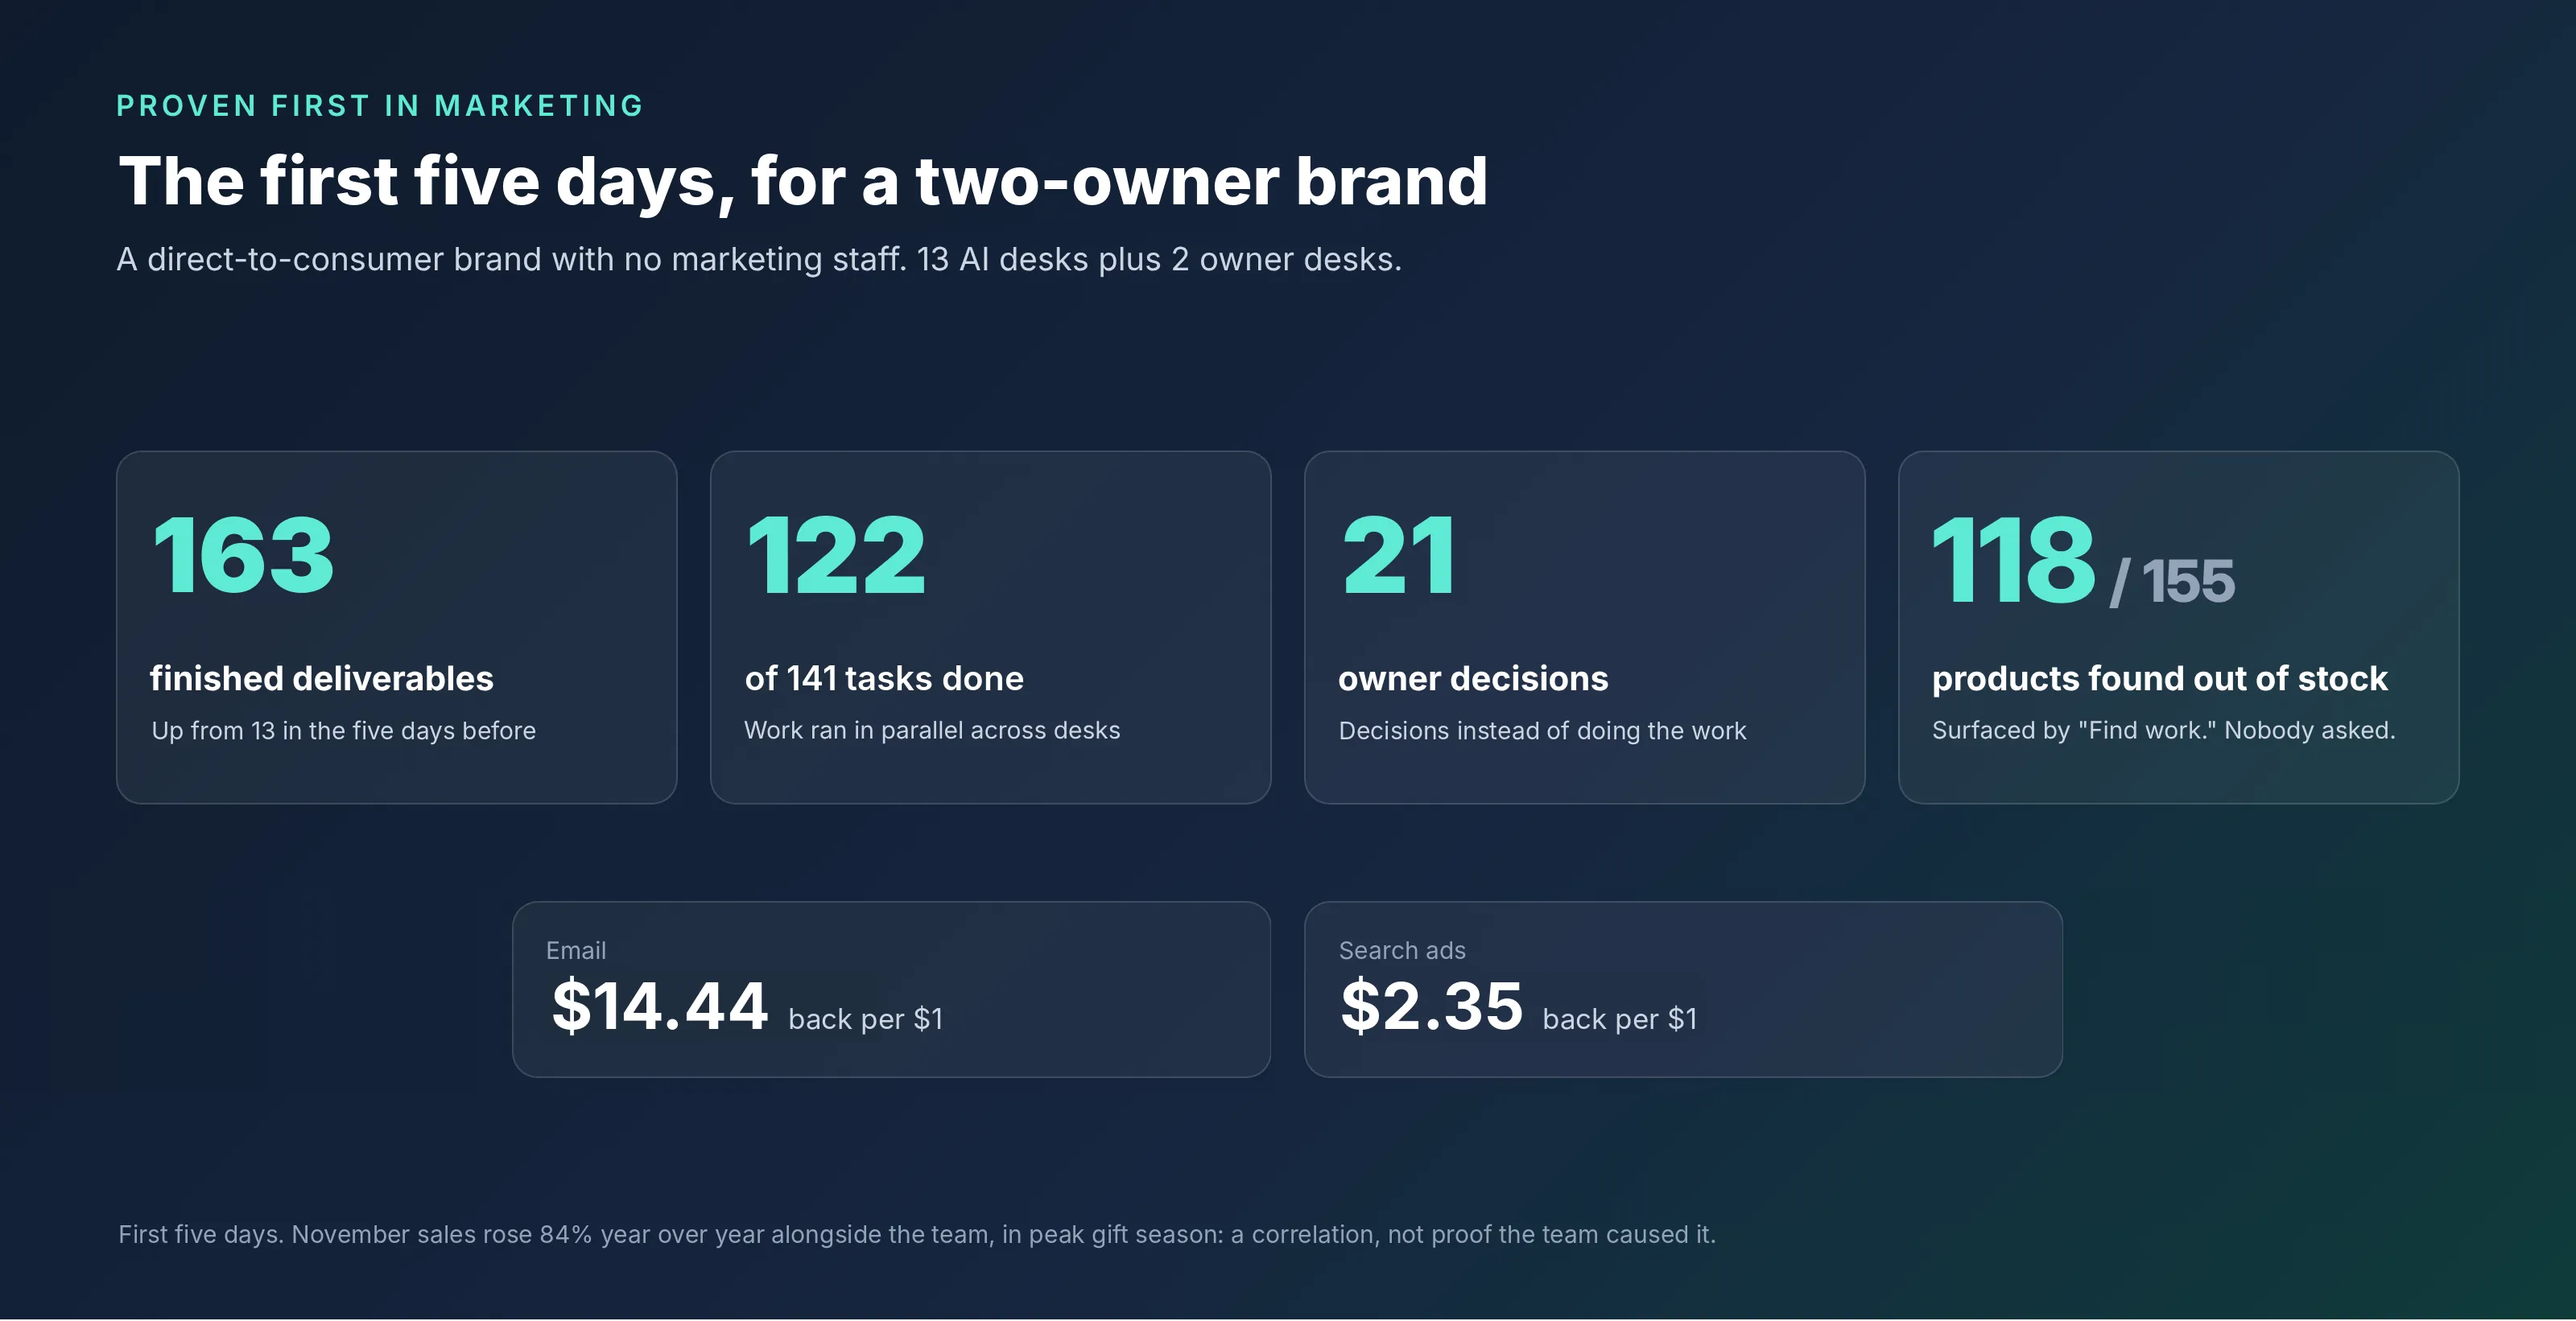
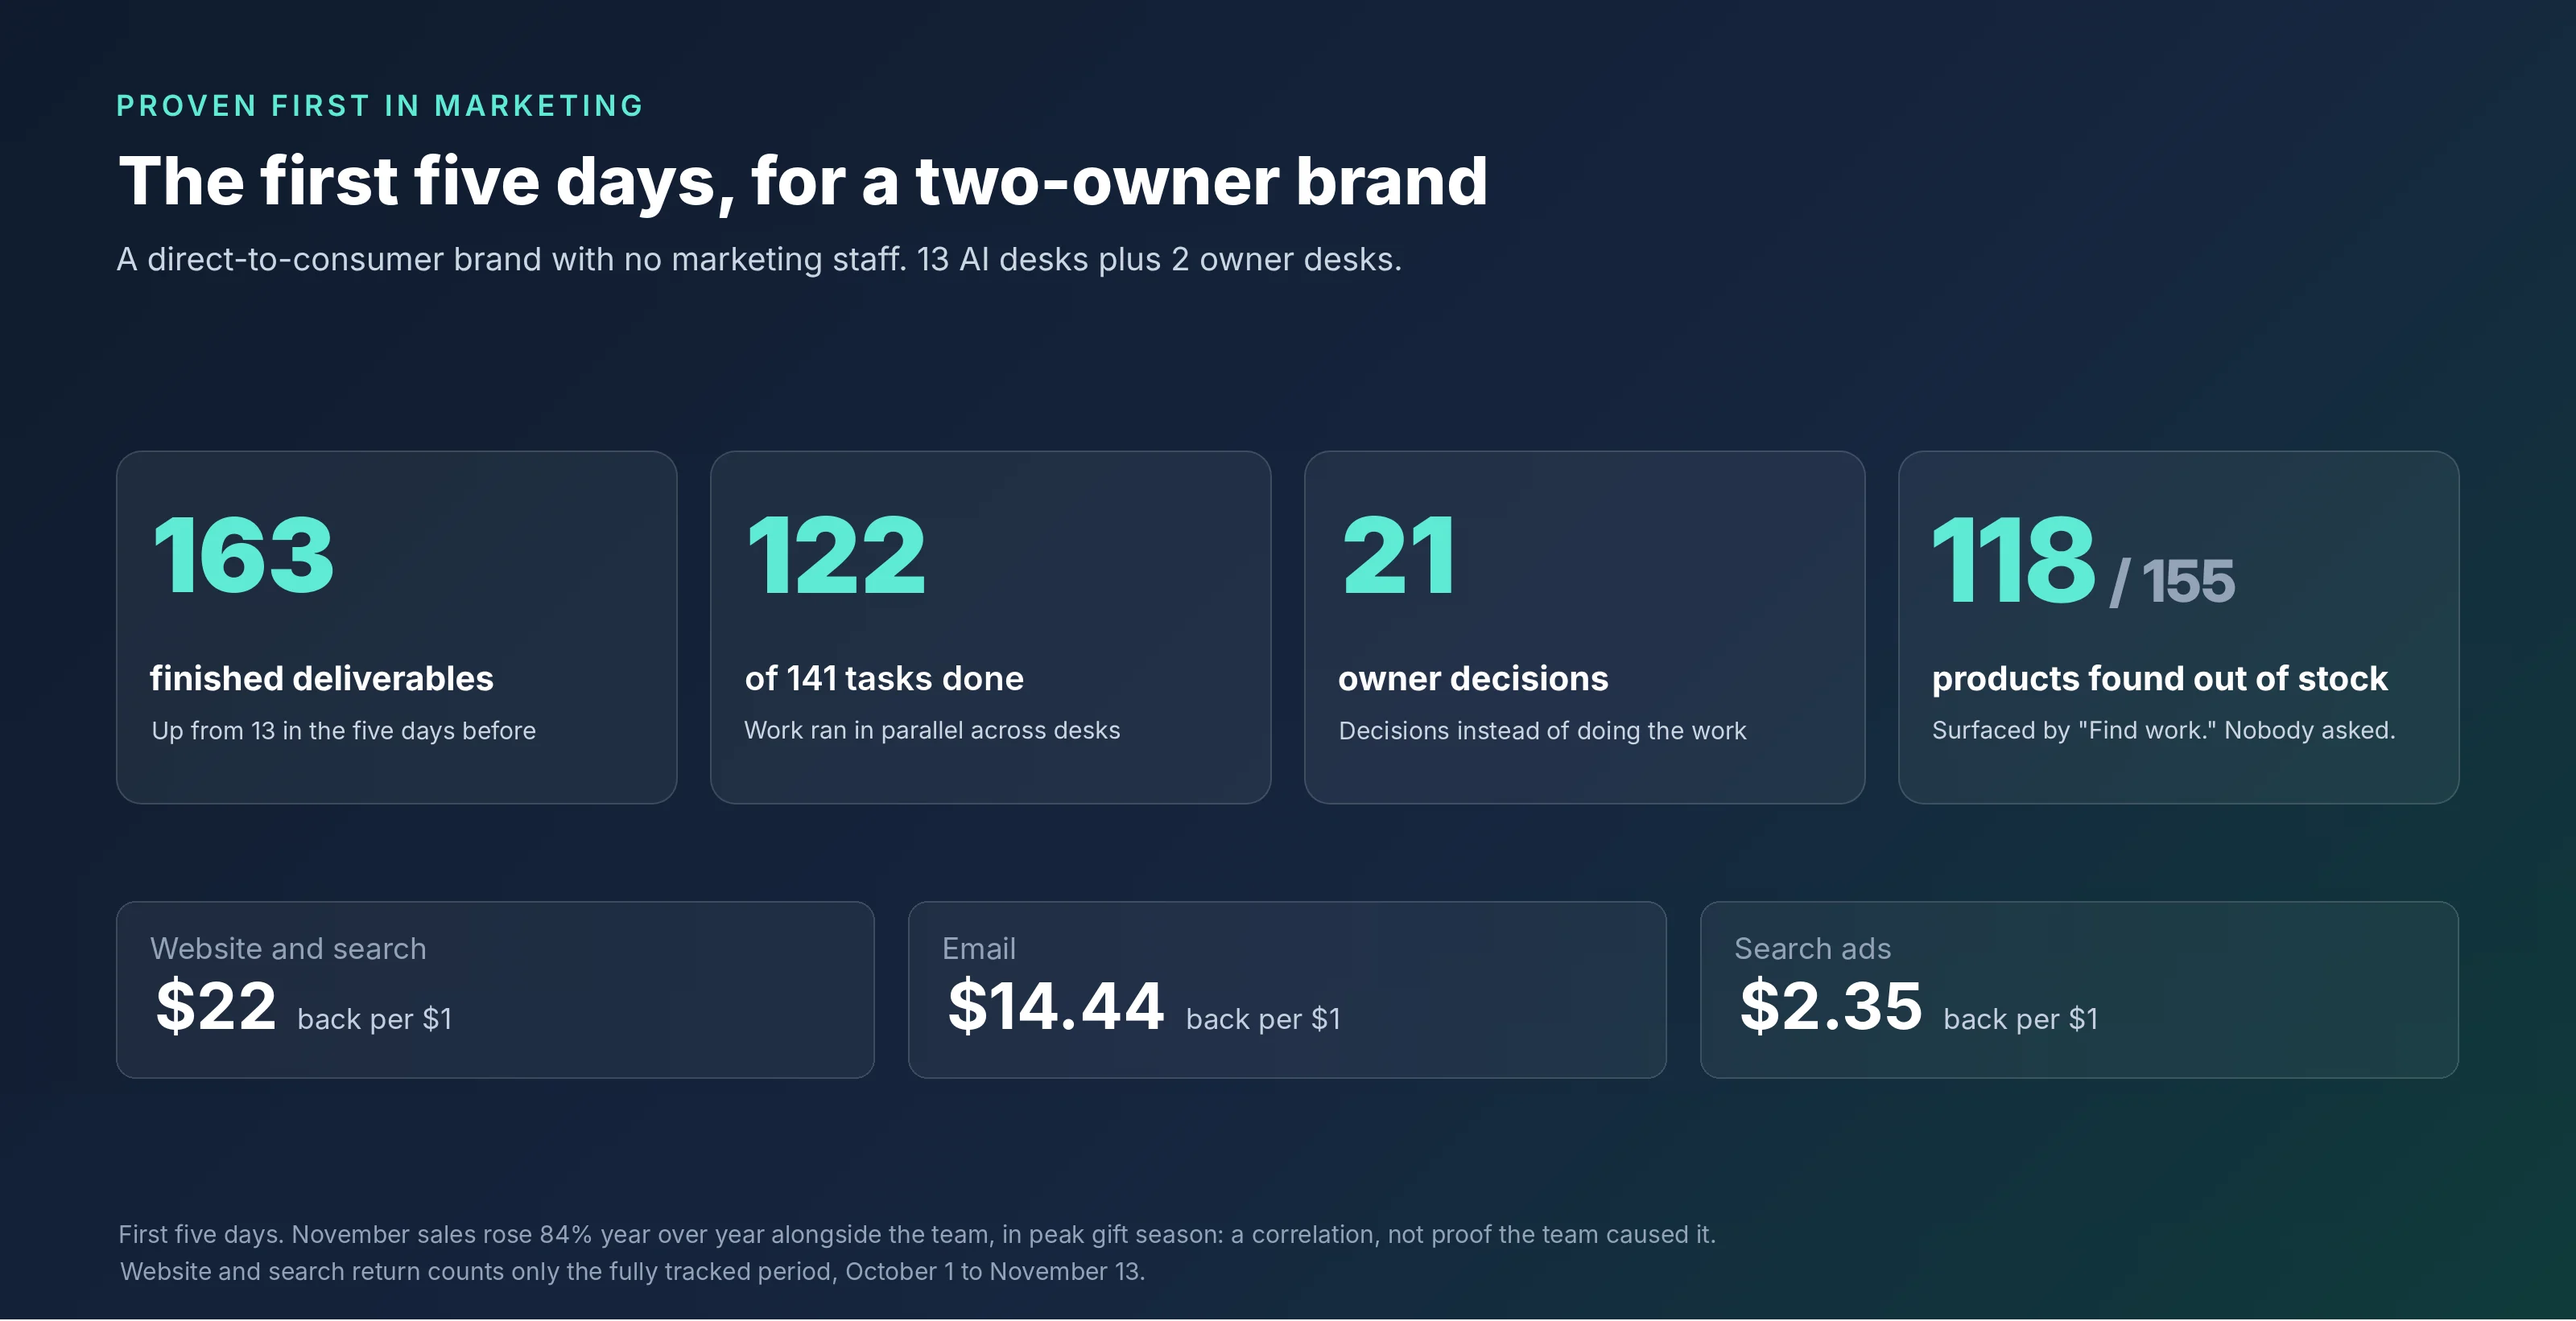
AI Workforce proof image: add website and search $22 per $1 card
Claude-Session: https://claude.ai/code/session_01SMmsKiJv2QkX4SPLzNsWuH

Changed region(s): [[0.2188, 0.7144, 0.8125, 0.7765], [0.0625, 0.7144, 0.1562, 0.7765]]

diff --git a/ai-workforce.html b/ai-workforce.html
@@ -365,7 +365,7 @@
         <p>We built a marketing office of 13 AI desks plus two owner desks, covering email, social, ads, website and SEO, creative, copywriting, a lead for each product line, retention, attribution, and a general manager. We connected 16 of the business's systems, and the co-owner sends ideas and approves work from a private team chat channel.</p>
 
         <figure class="aiw-shot">
-          <img src="/images/ai-workforce/09-proof-1600.webp" srcset="/images/ai-workforce/09-proof-1600.webp 1600w, /images/ai-workforce/09-proof-3200.webp 3200w" sizes="(max-width: 1120px) 100vw, 1080px" width="1600" height="821" alt="First five days for a DTC beverage brand: 163 finished deliverables, up from 13 in the five days before, 122 of 141 tasks done, 21 owner decisions, 118 of 155 products found out of stock, and $14.44 back per $1 on email and $2.35 on search ads" loading="lazy" decoding="async">
+          <img src="/images/ai-workforce/09-proof-1600.webp" srcset="/images/ai-workforce/09-proof-1600.webp 1600w, /images/ai-workforce/09-proof-3200.webp 3200w" sizes="(max-width: 1120px) 100vw, 1080px" width="1600" height="821" alt="First five days for a DTC beverage brand: 163 finished deliverables, up from 13 in the five days before, 122 of 141 tasks done, 21 owner decisions, 118 of 155 products found out of stock, and $22 back per $1 on website and search, $14.44 on email, and $2.35 on search ads" loading="lazy" decoding="async">
           <figcaption>Real results from the team's first five days.</figcaption>
         </figure>
 
